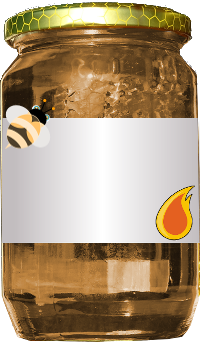
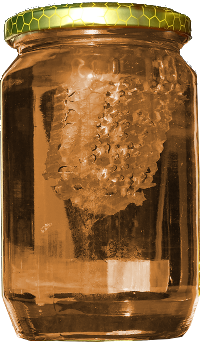
Jar Update Commit
Updated jar images to work better with the coupons.

diff --git a/js/states/Preload.js b/js/states/Preload.js
@@ -16,7 +16,7 @@ Flood.PreloadState = {
         //Flooded Comb
         this.load.image('redFloodie', 'assets/images/Red/Flood_red_floodie.png');
         //Honey Floodie
-        this.load.image('bugFloodie', 'assets/images/Red/Flood_bug_floodie.png');
+        this.load.image('redFilledFloodie', 'assets/images/Red/Flood_bug_floodie.png');
         //End BG
         this.load.image('bgBug', 'assets/images/Red/Flood_bugGameBG.png');
         //Honey Jar
@@ -29,7 +29,7 @@ Flood.PreloadState = {
         //Flooded Comb
         this.load.image('orangeFloodie', 'assets/images/Orange/Flood_orange_floodie.png');
         //Honey Floodie
-        this.load.image('fireFloodie', 'assets/images/Orange/Flood_fire_floodie.png');
+        this.load.image('orangeFilledFloodie', 'assets/images/Orange/Flood_fire_floodie.png');
         //End BG
         this.load.image('bgFire', 'assets/images/Orange/Flood_fireBG.png');
         //Honey Jar
@@ -42,7 +42,7 @@ Flood.PreloadState = {
         //Flooded Comb
         this.load.image('yellowFloodie', 'assets/images/Yellow/Flood_yellow_floodie.png');
         //Honey Floodie
-        this.load.image('honeyFloodie', 'assets/images/Yellow/Flood_honey_floodie.png');
+        this.load.image('yellowFilledFloodie', 'assets/images/Yellow/Flood_honey_floodie.png');
         //End BG same as main
         //Honey Jar
         this.load.image('yellowHoneyJar', 'assets/images/Yellow/Flood_yellowJar.png');
@@ -54,7 +54,7 @@ Flood.PreloadState = {
         //Flooded Comb
         this.load.image('greenFloodie', 'assets/images/Green/Flood_green_floodie.png');
         //Honey Floodie
-        this.load.image('luckyFloodie', 'assets/images/Green/Flood_lucky_floodie.png');
+        this.load.image('greenFilledFloodie', 'assets/images/Green/Flood_lucky_floodie.png');
         //End BG
         this.load.image('bgLucky', 'assets/images/Green/Flood_luckyGameBG.png');
         //Honey Jar
@@ -67,7 +67,7 @@ Flood.PreloadState = {
         //Flooded Comb
         this.load.image('blueFloodie', 'assets/images/Blue/Flood_blue_floodie.png');
         //Honey Floodie
-        this.load.image('rainFloodie', 'assets/images/Blue/Flood_rain_floodie.png');
+        this.load.image('blueFilledFloodie', 'assets/images/Blue/Flood_rain_floodie.png');
         //End BG
         this.load.image('bgRain', 'assets/images/Blue/Flood_rainGameBG.png');
         //Honey Jar
@@ -80,7 +80,7 @@ Flood.PreloadState = {
         //Flooded Comb
         this.load.image('purpleFloodie', 'assets/images/Purple/Flood_purple_floodie.png');
         //Honey Floodie
-        this.load.image('thunderFloodie', 'assets/images/Purple/Flood_thunder_floodie.png');
+        this.load.image('purpleFilledFloodie', 'assets/images/Purple/Flood_thunder_floodie.png');
         //End BG
         this.load.image('bgThunder', 'assets/images/Purple/Flood_thunderGameBG.png');
         //Honey Jar
@@ -93,7 +93,7 @@ Flood.PreloadState = {
         //Flooded Comb
         this.load.image('pinkFloodie', 'assets/images/Pink/Flood_pink_floodie.png');
         //Honey Floodie
-        this.load.image('roseFloodie', 'assets/images/Pink/Flood_rose_floodie.png');
+        this.load.image('pinkFilledFloodie', 'assets/images/Pink/Flood_rose_floodie.png');
         //End BG
         this.load.image('bgRose', 'assets/images/Pink/Flood_roseGameBG.png');
         //Honey Jar
@@ -106,7 +106,7 @@ Flood.PreloadState = {
         //Flooded Comb
         this.load.image('brownFloodie', 'assets/images/Brown/Flood_brown_floodie.png');
         //Honey Floodie
-        this.load.image('bearFloodie', 'assets/images/Brown/Flood_bear_floodie.png');
+        this.load.image('brownFilledFloodie', 'assets/images/Brown/Flood_bear_floodie.png');
         //End BG same as main
         //Honey Jar
         this.load.image('brownHoneyJar', 'assets/images/Brown/Flood_brownJar.png');
@@ -118,7 +118,7 @@ Flood.PreloadState = {
         //Flooded Comb
         this.load.image('whiteFloodie', 'assets/images/White/Flood_white_floodie.png');
         //Honey Floodie
-        this.load.image('iceFloodie', 'assets/images/White/Flood_ice_floodie.png');
+        this.load.image('whiteFilledFloodie', 'assets/images/White/Flood_ice_floodie.png');
         //End BG same as blue
         //Honey Jar
         this.load.image('whiteHoneyJar', 'assets/images/White/Flood_whiteJar.png');
@@ -130,7 +130,7 @@ Flood.PreloadState = {
         //Flooded Comb
         this.load.image('blackFloodie', 'assets/images/Black/Flood_black_floodie.png');
         //Honey Floodie
-        this.load.image('nightFloodie', 'assets/images/Black/Flood_night_floodie.png');
+        this.load.image('blackFilledFloodie', 'assets/images/Black/Flood_night_floodie.png');
         //End BG
         this.load.image('bgNight', 'assets/images/Black/Flood_nightGameBG.png');
         //Honey Jar
@@ -141,7 +141,8 @@ Flood.PreloadState = {
         this.load.image('main', 'assets/images/Flood_main.png');
         this.load.image('bg', 'assets/images/Flood_gameBG.png');
         this.load.image('start', 'assets/images/Flood_start.png');
-        this.load.image('end', 'assets/images/Flood_end.png');
+        this.load.image('end', 'assets/images/Flood_bg.png');
+        this.load.image('backerFloodie', 'assets/images/Flood_backer_Floodie.png');
         this.load.image('coupon', 'assets/images/Flood_coupon.jpg');
         this.load.spritesheet('flyBee', 'assets/images/Flood_flyBee.png', 202, 204, 5);
         

diff --git a/js/states/Game.js b/js/states/Game.js
@@ -201,50 +201,50 @@ Flood.GameState = {
                 if(Flood.GameState.bees[index].colour === 'red')
                 {
                     this.background.loadTexture("bgBug");
-                    combTexture = 'bugFloodie';//Buggy Honey
+                    combTexture = 'redFilledFloodie';//Buggy Honey
                 }
                 else if(Flood.GameState.bees[index].colour === 'orange')
                 {
                     this.background.loadTexture("bgFire");
-                    combTexture = 'fireFloodie';//Fiery Honey
+                    combTexture = 'orangeFilledFloodie';//Fiery Honey
                 }
                 else if(Flood.GameState.bees[index].colour === 'yellow')
                 {
-                    combTexture = 'honeyFloodie';//Natural Honey
+                    combTexture = 'yellowFilledFloodie';//Natural Honey
                 }
                 else if(Flood.GameState.bees[index].colour === 'green')
                 {
                     this.background.loadTexture("bgLucky");
-                    combTexture = 'luckyFloodie';//Lucky Honey
+                    combTexture = 'greenFilledFloodie';//Lucky Honey
                 }
                 else if(Flood.GameState.bees[index].colour === 'blue')
                 {
                     this.background.loadTexture("bgRain");
-                    combTexture = 'rainFloodie';//Cool Honey
+                    combTexture = 'blueFilledFloodie';//Cool Honey
                 }
                 else if(Flood.GameState.bees[index].colour === 'purple')
                 {
                     this.background.loadTexture("bgThunder");
-                    combTexture = 'thunderFloodie';//Stormy Honey
+                    combTexture = 'purpleFilledFloodie';//Stormy Honey
                 }
                 else if(Flood.GameState.bees[index].colour === 'pink')
                 {
                     this.background.loadTexture("bgRose");
-                    combTexture = 'roseFloodie';//Rose Honey
+                    combTexture = 'pinkFilledFloodie';//Rose Honey
                 }
                 else if(Flood.GameState.bees[index].colour === 'brown')
                 {
-                    combTexture = 'bearFloodie';//Hunny Bear Hunny
+                    combTexture = 'brownFilledFloodie';//Hunny Bear Hunny
                 }
                 else if(Flood.GameState.bees[index].colour === 'white')
                 {
                     this.background.loadTexture("bgRain");
-                    combTexture = 'iceFloodie';//Whiteout Honey
+                    combTexture = 'whiteFilledFloodie';//Whiteout Honey
                 }
                 else if(Flood.GameState.bees[index].colour === 'black')
                 {
                     this.background.loadTexture("bgNight");
-                    combTexture = 'nightFloodie';//Midnight Honey
+                    combTexture = 'blackFilledFloodie';//Midnight Honey
                 }
                 
                 for(let col1 = 0, col1Len = Flood.GameState.board.length; col1<col1Len; col1++)
@@ -264,7 +264,7 @@ Flood.GameState = {
                     }
                     else
                     {*/
-                        Flood.HoneyPot = `${this.currentColour}HoneyJar`;
+                        Flood.HoneyPot = `${this.currentColour}`;
                         Flood.GameState.game.state.start('End');
                     /*}
                     let tempArray = new Array();//Fill Array with board and randomly remove

diff --git a/js/states/End.js b/js/states/End.js
@@ -13,13 +13,25 @@ Flood.EndState = {
         this.add.sprite(200, 300, 'pinkHoneyJar');
         this.add.sprite(400, 300, 'brownHoneyJar');
         this.add.sprite(600, 300, 'whiteHoneyJar');*/
-        this.jar = this.add.sprite(900, 150, Flood.HoneyPot);//800, 300
+        this.jar = this.add.sprite(900, 150, `${Flood.HoneyPot}HoneyJar`);//800, 300
         this.jar.scale.setTo(0.01, 0.01);
         
         this.coupon = this.add.sprite(100, 180, 'coupon');
-        this.coupon.scale.setTo(0.3, 0.3);
+        this.coupon.scale.setTo(0.34, 0.36);
         this.coupon.anchor.setTo(0.5, 0.5);
         this.jar.addChild(this.coupon);
+        
+        this.bee = this.add.sprite(0, 100, `${Flood.HoneyPot}Bee`);
+        this.bee.scale.setTo(0.5, 0.5);
+        this.jar.addChild(this.bee);
+        
+        this.backerFloodie = this.add.sprite(150, 205, `${Flood.HoneyPot}Floodie`);
+        this.backerFloodie.scale.setTo(0.5, 0.5);
+        this.jar.addChild(this.backerFloodie);
+        
+        this.floodie = this.add.sprite(150, 205, `${Flood.HoneyPot}FilledFloodie`);
+        this.floodie.scale.setTo(0.5, 0.5);
+        this.jar.addChild(this.floodie);
         
         
         this.flyBee1=this.add.sprite(900, 150, 'flyBee');
